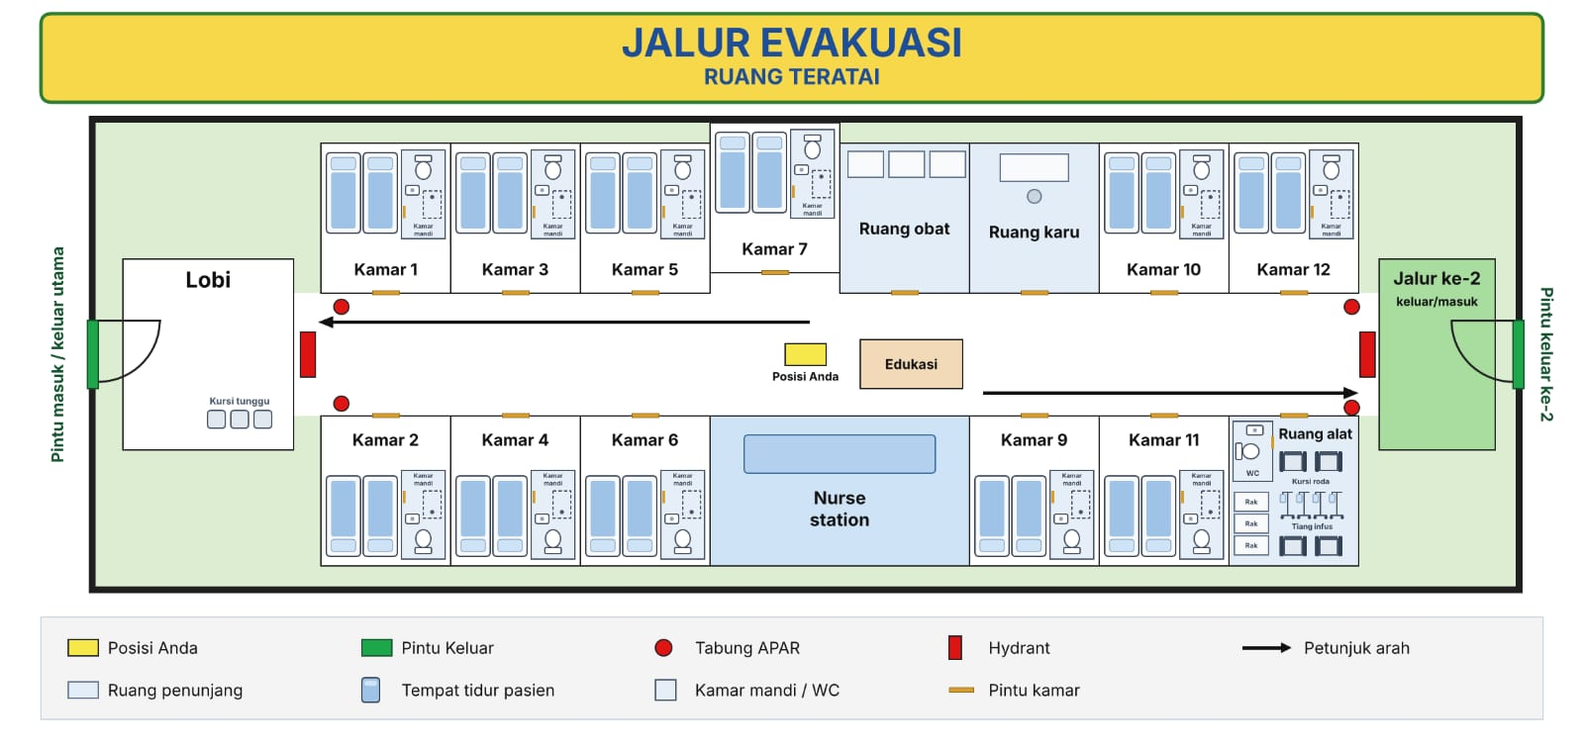
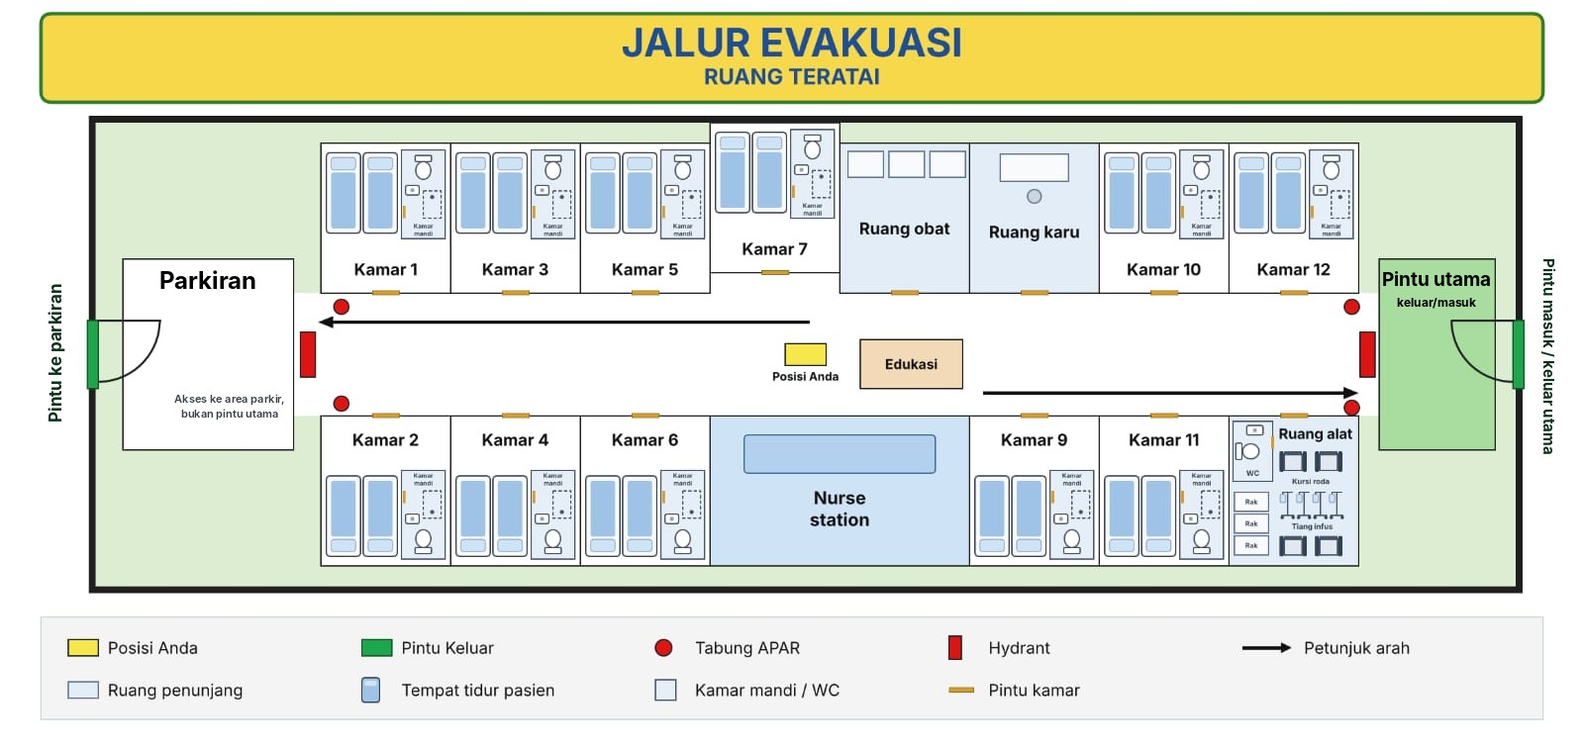
Revisi klien: ilustrasi tangan lebih menyerupai tangan, hapus link di sambutan karu, denah parkiran & pintu utama
- 6 ilustrasi cuci tangan digambar ulang sebagai siluet tangan berwarna kulit
- Link 'Kenali tim kami' di sambutan karu dihapus
- Denah: sisi kiri jadi Parkiran (bukan pintu utama), sisi kanan jadi Pintu utama;
  poster jalur evakuasi diedit dengan label yang sama

Claude-Session: https://claude.ai/code/session_017v6r4Dh7K6F4WkuNDGeXEq

diff --git a/halaman/edukasi.html b/halaman/edukasi.html
@@ -82,43 +82,43 @@
         <div class="hand-steps reveal">
           <figure class="hand-step">
             <svg viewBox="0 0 200 170" role="img" aria-label="Langkah 1: gosok kedua telapak tangan" class="hand-ill">
-  <defs><marker id="ah1" viewBox="0 0 10 10" refX="6" refY="5" markerWidth="5" markerHeight="5" orient="auto-start-reverse"><path d="M0 0 10 5 0 10z" fill="#00843a"/></marker></defs>
-  <g stroke="#12233d" stroke-width="2.2" stroke-linejoin="round" stroke-linecap="round"><g transform="translate(88 98) rotate(10)"><g fill="#ffffff"><rect x="-5.5" y="-30" width="11" height="34" rx="5.5" transform="translate(-21 16) rotate(-38)"/><rect x="-22" y="-46" width="11" height="46" rx="5.5"/><rect x="-10.5" y="-55" width="11" height="55" rx="5.5"/><rect x="1" y="-53" width="11" height="53" rx="5.5"/><rect x="12.5" y="-42" width="11" height="42" rx="5.5"/><path d="M-23 -6 C-25 18 -20 34 -13 40 L-12 64 L12 64 L13 40 C21 32 25 18 23.5 -6 Z"/><path d="M-14 24 Q0 30 14 22" fill="none"/></g></g><g transform="translate(112 100) rotate(-10) scale(-1 1)"><g fill="#d6e4fa"><rect x="-5.5" y="-30" width="11" height="34" rx="5.5" transform="translate(-21 16) rotate(-38)"/><rect x="-22" y="-46" width="11" height="46" rx="5.5"/><rect x="-10.5" y="-55" width="11" height="55" rx="5.5"/><rect x="1" y="-53" width="11" height="53" rx="5.5"/><rect x="12.5" y="-42" width="11" height="42" rx="5.5"/><path d="M-23 -6 C-25 18 -20 34 -13 40 L-12 64 L12 64 L13 40 C21 32 25 18 23.5 -6 Z"/><path d="M-14 24 Q0 30 14 22" fill="none"/></g></g><circle cx="70" cy="60" r="4" fill="#fff" stroke="#7fa8e6" stroke-width="1.6"/><circle cx="132" cy="62" r="3.5" fill="#fff" stroke="#7fa8e6" stroke-width="1.6"/><circle cx="128" cy="118" r="3" fill="#fff" stroke="#7fa8e6" stroke-width="1.6"/><path d="M34 64 A 16 16 0 1 1 40 96" fill="none" stroke="#00843a" stroke-width="3" stroke-linecap="round" marker-end="url(#ah1)"/><path d="M166 96 A 16 16 0 1 1 160 64" fill="none" stroke="#00843a" stroke-width="3" stroke-linecap="round" marker-end="url(#ah1)"/></g>
+  <defs><marker id="ah1" viewBox="0 0 10 10" refX="6" refY="5" markerWidth="4.5" markerHeight="4.5" orient="auto-start-reverse"><path d="M0 0 10 5 0 10z" fill="#00843a"/></marker></defs>
+  <g transform="translate(58 22) rotate(-6 46 75) scale(.92)"><path d="M26 150 C24 132 18 118 12 104 C6 92 0 78 2 66 C3 58 12 56 16 63 C19 70 22 80 24 86 L22 34 C22 22 38 22 38 32 L38 60 C38 63 40 63 40 60 L40 22 C40 10 56 10 56 22 L56 58 C56 61 58 61 58 58 L58 28 C58 17 74 17 74 28 L74 62 C74 65 76 65 76 62 L76 46 C76 36 90 36 90 46 L90 86 C92 102 90 116 86 128 L84 150 Z" fill="#eec0a2" stroke="#4a3328" stroke-width="1.9" stroke-linejoin="round"/><path d="M28 100 C40 92 56 92 70 96 M30 112 C44 106 60 108 72 116 M24 90 C30 100 34 118 36 132 M24 46 h12 M42 38 h12 M60 42 h12 M78 58 h10 M24 72 h12 M42 66 h12 M60 70 h12" fill="none" stroke="#b98a72" stroke-width="1.5" stroke-linecap="round"/></g><g transform="translate(146 26) rotate(6 -46 75) scale(-.92 .92)"><path d="M26 150 C24 132 18 118 12 104 C6 92 0 78 2 66 C3 58 12 56 16 63 C19 70 22 80 24 86 L22 34 C22 22 38 22 38 32 L38 60 C38 63 40 63 40 60 L40 22 C40 10 56 10 56 22 L56 58 C56 61 58 61 58 58 L58 28 C58 17 74 17 74 28 L74 62 C74 65 76 65 76 62 L76 46 C76 36 90 36 90 46 L90 86 C92 102 90 116 86 128 L84 150 Z" fill="#fbe0cd" stroke="#4a3328" stroke-width="1.9" stroke-linejoin="round"/><path d="M28 100 C40 92 56 92 70 96 M30 112 C44 106 60 108 72 116 M24 90 C30 100 34 118 36 132 M24 46 h12 M42 38 h12 M60 42 h12 M78 58 h10 M24 72 h12 M42 66 h12 M60 70 h12" fill="none" stroke="#b98a72" stroke-width="1.5" stroke-linecap="round"/></g><circle cx="60" cy="40" r="4" fill="#fff" stroke="#8fb4ea" stroke-width="1.5"/><circle cx="142" cy="44" r="3.5" fill="#fff" stroke="#8fb4ea" stroke-width="1.5"/><circle cx="100" cy="150" r="3" fill="#fff" stroke="#8fb4ea" stroke-width="1.5"/><path d="M30 80 A 16 16 0 1 1 40 108" fill="none" stroke="#00843a" stroke-width="3.2" stroke-linecap="round" marker-end="url(#ah1)"/><path d="M170 108 A 16 16 0 1 1 160 80" fill="none" stroke="#00843a" stroke-width="3.2" stroke-linecap="round" marker-end="url(#ah1)"/>
 </svg>
             <figcaption><span class="big-no">1</span><span>Gosok kedua telapak tangan.</span></figcaption>
           </figure>
           <figure class="hand-step">
             <svg viewBox="0 0 200 170" role="img" aria-label="Langkah 2: gosok punggung tangan dan sela jari bergantian" class="hand-ill">
-  <defs><marker id="ah2" viewBox="0 0 10 10" refX="6" refY="5" markerWidth="5" markerHeight="5" orient="auto-start-reverse"><path d="M0 0 10 5 0 10z" fill="#00843a"/></marker></defs>
-  <g stroke="#12233d" stroke-width="2.2" stroke-linejoin="round" stroke-linecap="round"><g transform="translate(98 104) rotate(0) scale(-1 1)"><g fill="#d6e4fa"><rect x="-5.5" y="-30" width="11" height="34" rx="5.5" transform="translate(-21 16) rotate(-38)"/><rect x="-22" y="-46" width="11" height="46" rx="5.5"/><rect x="-10.5" y="-55" width="11" height="55" rx="5.5"/><rect x="1" y="-53" width="11" height="53" rx="5.5"/><rect x="12.5" y="-42" width="11" height="42" rx="5.5"/><path d="M-23 -6 C-25 18 -20 34 -13 40 L-12 64 L12 64 L13 40 C21 32 25 18 23.5 -6 Z"/><path d="M-14 24 Q0 30 14 22" fill="none"/></g></g><g transform="translate(112 86) rotate(-24)"><g fill="#ffffff"><rect x="-5.5" y="-30" width="11" height="34" rx="5.5" transform="translate(-21 16) rotate(-38)"/><rect x="-22" y="-46" width="11" height="46" rx="5.5"/><rect x="-10.5" y="-55" width="11" height="55" rx="5.5"/><rect x="1" y="-53" width="11" height="53" rx="5.5"/><rect x="12.5" y="-42" width="11" height="42" rx="5.5"/><path d="M-23 -6 C-25 18 -20 34 -13 40 L-12 64 L12 64 L13 40 C21 32 25 18 23.5 -6 Z"/><path d="M-14 24 Q0 30 14 22" fill="none"/></g></g><circle cx="60" cy="58" r="3.5" fill="#fff" stroke="#7fa8e6" stroke-width="1.6"/><circle cx="150" cy="120" r="3" fill="#fff" stroke="#7fa8e6" stroke-width="1.6"/><path d="M150 36 L176 72" fill="none" stroke="#00843a" stroke-width="3" stroke-linecap="round" marker-start="url(#ah2)" marker-end="url(#ah2)"/></g>
+  <defs><marker id="ah2" viewBox="0 0 10 10" refX="6" refY="5" markerWidth="4.5" markerHeight="4.5" orient="auto-start-reverse"><path d="M0 0 10 5 0 10z" fill="#00843a"/></marker></defs>
+  <g transform="translate(58 26) scale(.9)"><path d="M26 150 C24 132 18 118 12 104 C6 92 0 78 2 66 C3 58 12 56 16 63 C19 70 22 80 24 86 L22 34 C22 22 38 22 38 32 L38 60 C38 63 40 63 40 60 L40 22 C40 10 56 10 56 22 L56 58 C56 61 58 61 58 58 L58 28 C58 17 74 17 74 28 L74 62 C74 65 76 65 76 62 L76 46 C76 36 90 36 90 46 L90 86 C92 102 90 116 86 128 L84 150 Z" fill="#eec0a2" stroke="#4a3328" stroke-width="1.9" stroke-linejoin="round"/><path d="M25 30 c3 -4 8 -4 11 0 M43 18 c3 -4 8 -4 11 0 M61 24 c3 -4 8 -4 11 0 M79 42 c3 -4 8 -4 9 0 M28 70 q4 3 8 0 M46 66 q4 3 8 0 M64 70 q4 3 8 0 M80 80 q4 3 7 0 M44 110 C52 120 62 120 70 112" fill="none" stroke="#b98a72" stroke-width="1.5" stroke-linecap="round"/></g><g transform="translate(150 10) rotate(18 -46 75) scale(-.9 .9)"><path d="M26 150 C24 132 18 118 12 104 C6 92 0 78 2 66 C3 58 12 56 16 63 C19 70 22 80 24 86 L22 34 C22 22 38 22 38 32 L38 60 C38 63 40 63 40 60 L40 22 C40 10 56 10 56 22 L56 58 C56 61 58 61 58 58 L58 28 C58 17 74 17 74 28 L74 62 C74 65 76 65 76 62 L76 46 C76 36 90 36 90 46 L90 86 C92 102 90 116 86 128 L84 150 Z" fill="#fbe0cd" stroke="#4a3328" stroke-width="1.9" stroke-linejoin="round"/><path d="M28 100 C40 92 56 92 70 96 M30 112 C44 106 60 108 72 116 M24 90 C30 100 34 118 36 132 M24 46 h12 M42 38 h12 M60 42 h12 M78 58 h10 M24 72 h12 M42 66 h12 M60 70 h12" fill="none" stroke="#b98a72" stroke-width="1.5" stroke-linecap="round"/></g><circle cx="58" cy="52" r="4" fill="#fff" stroke="#8fb4ea" stroke-width="1.5"/><circle cx="150" cy="140" r="3.5" fill="#fff" stroke="#8fb4ea" stroke-width="1.5"/><path d="M168 40 L182 80" fill="none" stroke="#00843a" stroke-width="3.2" stroke-linecap="round" marker-start="url(#ah2)" marker-end="url(#ah2)"/>
 </svg>
             <figcaption><span class="big-no">2</span><span>Gosok punggung tangan dan sela-sela jari, bergantian kanan dan kiri.</span></figcaption>
           </figure>
           <figure class="hand-step">
             <svg viewBox="0 0 200 170" role="img" aria-label="Langkah 3: gosok telapak dan sela jari dengan jari saling terkait" class="hand-ill">
-  <defs><marker id="ah3" viewBox="0 0 10 10" refX="6" refY="5" markerWidth="5" markerHeight="5" orient="auto-start-reverse"><path d="M0 0 10 5 0 10z" fill="#00843a"/></marker></defs>
-  <g stroke="#12233d" stroke-width="2.2" stroke-linejoin="round" stroke-linecap="round"><g transform="translate(93 102)"><g fill="#ffffff"><rect x="-5.5" y="-30" width="11" height="34" rx="5.5" transform="translate(-21 16) rotate(-38)"/><rect x="-22" y="-46" width="11" height="46" rx="5.5"/><rect x="-10.5" y="-55" width="11" height="55" rx="5.5"/><rect x="1" y="-53" width="11" height="53" rx="5.5"/><rect x="12.5" y="-42" width="11" height="42" rx="5.5"/><path d="M-23 -6 C-25 18 -20 34 -13 40 L-12 64 L12 64 L13 40 C21 32 25 18 23.5 -6 Z"/><path d="M-14 24 Q0 30 14 22" fill="none"/></g></g><g transform="translate(105 96) scale(-1 1)"><g fill="#d6e4fa"><rect x="-5.5" y="-30" width="11" height="34" rx="5.5" transform="translate(-21 16) rotate(-38)"/><rect x="-22" y="-46" width="11" height="46" rx="5.5"/><rect x="-10.5" y="-55" width="11" height="55" rx="5.5"/><rect x="1" y="-53" width="11" height="53" rx="5.5"/><rect x="12.5" y="-42" width="11" height="42" rx="5.5"/><path d="M-23 -6 C-25 18 -20 34 -13 40 L-12 64 L12 64 L13 40 C21 32 25 18 23.5 -6 Z"/><path d="M-14 24 Q0 30 14 22" fill="none"/></g></g><circle cx="64" cy="70" r="3.5" fill="#fff" stroke="#7fa8e6" stroke-width="1.6"/><circle cx="140" cy="74" r="3" fill="#fff" stroke="#7fa8e6" stroke-width="1.6"/><path d="M160 52 L160 112" fill="none" stroke="#00843a" stroke-width="3" stroke-linecap="round" marker-start="url(#ah3)" marker-end="url(#ah3)"/></g>
+  <defs><marker id="ah3" viewBox="0 0 10 10" refX="6" refY="5" markerWidth="4.5" markerHeight="4.5" orient="auto-start-reverse"><path d="M0 0 10 5 0 10z" fill="#00843a"/></marker></defs>
+  <g transform="translate(52 22) scale(.92)"><path d="M26 150 C24 132 18 118 12 104 C6 92 0 78 2 66 C3 58 12 56 16 63 C19 70 22 80 24 86 L22 34 C22 22 38 22 38 32 L38 60 C38 63 40 63 40 60 L40 22 C40 10 56 10 56 22 L56 58 C56 61 58 61 58 58 L58 28 C58 17 74 17 74 28 L74 62 C74 65 76 65 76 62 L76 46 C76 36 90 36 90 46 L90 86 C92 102 90 116 86 128 L84 150 Z" fill="#eec0a2" stroke="#4a3328" stroke-width="1.9" stroke-linejoin="round"/><path d="M28 100 C40 92 56 92 70 96 M30 112 C44 106 60 108 72 116 M24 90 C30 100 34 118 36 132 M24 46 h12 M42 38 h12 M60 42 h12 M78 58 h10 M24 72 h12 M42 66 h12 M60 70 h12" fill="none" stroke="#b98a72" stroke-width="1.5" stroke-linecap="round"/></g><g transform="translate(154 26) scale(-.92 .92)"><path d="M26 150 C24 132 18 118 12 104 C6 92 0 78 2 66 C3 58 12 56 16 63 C19 70 22 80 24 86 L22 34 C22 22 38 22 38 32 L38 60 C38 63 40 63 40 60 L40 22 C40 10 56 10 56 22 L56 58 C56 61 58 61 58 58 L58 28 C58 17 74 17 74 28 L74 62 C74 65 76 65 76 62 L76 46 C76 36 90 36 90 46 L90 86 C92 102 90 116 86 128 L84 150 Z" fill="#fbe0cd" stroke="#4a3328" stroke-width="1.9" stroke-linejoin="round"/><path d="M28 100 C40 92 56 92 70 96 M30 112 C44 106 60 108 72 116 M24 90 C30 100 34 118 36 132 M24 46 h12 M42 38 h12 M60 42 h12 M78 58 h10 M24 72 h12 M42 66 h12 M60 70 h12" fill="none" stroke="#b98a72" stroke-width="1.5" stroke-linecap="round"/></g><circle cx="56" cy="50" r="4" fill="#fff" stroke="#8fb4ea" stroke-width="1.5"/><circle cx="146" cy="54" r="3.5" fill="#fff" stroke="#8fb4ea" stroke-width="1.5"/><path d="M180 60 L180 118" fill="none" stroke="#00843a" stroke-width="3.2" stroke-linecap="round" marker-start="url(#ah3)" marker-end="url(#ah3)"/>
 </svg>
             <figcaption><span class="big-no">3</span><span>Gosok telapak tangan dan sela-sela jari dengan jari saling terkait.</span></figcaption>
           </figure>
           <figure class="hand-step">
             <svg viewBox="0 0 200 170" role="img" aria-label="Langkah 4: gosok punggung jari dengan kedua tangan saling mengunci" class="hand-ill">
-  <defs><marker id="ah4" viewBox="0 0 10 10" refX="6" refY="5" markerWidth="5" markerHeight="5" orient="auto-start-reverse"><path d="M0 0 10 5 0 10z" fill="#00843a"/></marker></defs>
-  <g stroke="#12233d" stroke-width="2.2" stroke-linejoin="round" stroke-linecap="round"><g transform="translate(78 92) rotate(90)"><g fill="#ffffff"><path d="M-12 28 L-12 58 L12 58 L12 28"/><path d="M-24 -14 Q-24 -26 -12 -26 L14 -26 Q26 -26 26 -12 L25 14 Q24 26 10 28 L-10 28 Q-24 26 -24 12 Z"/><path d="M-12 -26 V-12 M1 -26 V-12 M14 -26 V-12" fill="none"/></g></g><g transform="translate(118 90) rotate(-90)"><g fill="#d6e4fa"><path d="M-12 28 L-12 58 L12 58 L12 28"/><path d="M-24 -14 Q-24 -26 -12 -26 L14 -26 Q26 -26 26 -12 L25 14 Q24 26 10 28 L-10 28 Q-24 26 -24 12 Z"/><path d="M-12 -26 V-12 M1 -26 V-12 M14 -26 V-12" fill="none"/></g></g><circle cx="98" cy="52" r="3.5" fill="#fff" stroke="#7fa8e6" stroke-width="1.6"/><circle cx="100" cy="130" r="3" fill="#fff" stroke="#7fa8e6" stroke-width="1.6"/><path d="M66 140 L134 140" fill="none" stroke="#00843a" stroke-width="3" stroke-linecap="round" marker-start="url(#ah4)" marker-end="url(#ah4)"/></g>
+  <defs><marker id="ah4" viewBox="0 0 10 10" refX="6" refY="5" markerWidth="4.5" markerHeight="4.5" orient="auto-start-reverse"><path d="M0 0 10 5 0 10z" fill="#00843a"/></marker></defs>
+  <g transform="translate(44 40) scale(.8)"><path d="M20 62 L-34 60 L-34 98 L22 96 Z" fill="#eec0a2" stroke="#4a3328" stroke-width="1.9" stroke-linejoin="round"/></g><g transform="translate(44 40) scale(.8)"><path d="M8 70 C6 46 18 28 38 26 C46 18 58 18 64 26 C72 22 84 26 86 36 C94 38 98 48 96 58 C100 66 98 78 90 82 C86 94 74 100 60 98 L30 98 C16 98 8 86 8 70 Z" fill="#eec0a2" stroke="#4a3328" stroke-width="1.9" stroke-linejoin="round"/><path d="M38 26 C40 40 40 52 36 62 M64 26 C66 40 64 54 60 64 M86 36 C86 48 84 58 80 66 M36 62 C52 70 70 70 90 82" fill="none" stroke="#b98a72" stroke-width="1.5" stroke-linecap="round"/></g><g transform="translate(156 42) scale(-.8 .8)"><path d="M20 62 L-34 60 L-34 98 L22 96 Z" fill="#fbe0cd" stroke="#4a3328" stroke-width="1.9" stroke-linejoin="round"/></g><g transform="translate(156 42) scale(-.8 .8)"><path d="M8 70 C6 46 18 28 38 26 C46 18 58 18 64 26 C72 22 84 26 86 36 C94 38 98 48 96 58 C100 66 98 78 90 82 C86 94 74 100 60 98 L30 98 C16 98 8 86 8 70 Z" fill="#fbe0cd" stroke="#4a3328" stroke-width="1.9" stroke-linejoin="round"/><path d="M38 26 C40 40 40 52 36 62 M64 26 C66 40 64 54 60 64 M86 36 C86 48 84 58 80 66 M36 62 C52 70 70 70 90 82" fill="none" stroke="#b98a72" stroke-width="1.5" stroke-linecap="round"/></g><circle cx="100" cy="40" r="4" fill="#fff" stroke="#8fb4ea" stroke-width="1.5"/><circle cx="96" cy="136" r="3" fill="#fff" stroke="#8fb4ea" stroke-width="1.5"/><path d="M60 148 L140 148" fill="none" stroke="#00843a" stroke-width="3.2" stroke-linecap="round" marker-start="url(#ah4)" marker-end="url(#ah4)"/>
 </svg>
             <figcaption><span class="big-no">4</span><span>Gosok punggung jari dengan posisi kedua tangan saling mengunci.</span></figcaption>
           </figure>
           <figure class="hand-step">
             <svg viewBox="0 0 200 170" role="img" aria-label="Langkah 5: gosok ibu jari memutar dalam genggaman tangan lain" class="hand-ill">
-  <defs><marker id="ah5" viewBox="0 0 10 10" refX="6" refY="5" markerWidth="5" markerHeight="5" orient="auto-start-reverse"><path d="M0 0 10 5 0 10z" fill="#00843a"/></marker></defs>
-  <g stroke="#12233d" stroke-width="2.2" stroke-linejoin="round" stroke-linecap="round"><g transform="translate(118 100) rotate(14)"><g fill="#ffffff"><rect x="-5.5" y="-30" width="11" height="34" rx="5.5" transform="translate(-21 16) rotate(-38)"/><rect x="-22" y="-46" width="11" height="46" rx="5.5"/><rect x="-10.5" y="-55" width="11" height="55" rx="5.5"/><rect x="1" y="-53" width="11" height="53" rx="5.5"/><rect x="12.5" y="-42" width="11" height="42" rx="5.5"/><path d="M-23 -6 C-25 18 -20 34 -13 40 L-12 64 L12 64 L13 40 C21 32 25 18 23.5 -6 Z"/><path d="M-14 24 Q0 30 14 22" fill="none"/></g></g><g transform="translate(84 104) rotate(-60) scale(.78)"><g fill="#d6e4fa"><path d="M-12 28 L-12 58 L12 58 L12 28"/><path d="M-24 -14 Q-24 -26 -12 -26 L14 -26 Q26 -26 26 -12 L25 14 Q24 26 10 28 L-10 28 Q-24 26 -24 12 Z"/><path d="M-12 -26 V-12 M1 -26 V-12 M14 -26 V-12" fill="none"/></g></g><circle cx="150" cy="52" r="3.5" fill="#fff" stroke="#7fa8e6" stroke-width="1.6"/><circle cx="156" cy="112" r="3" fill="#fff" stroke="#7fa8e6" stroke-width="1.6"/><path d="M42 70 A 30 30 0 1 0 98 82" fill="none" stroke="#00843a" stroke-width="3" stroke-linecap="round" marker-end="url(#ah5)"/></g>
+  <defs><marker id="ah5" viewBox="0 0 10 10" refX="6" refY="5" markerWidth="4.5" markerHeight="4.5" orient="auto-start-reverse"><path d="M0 0 10 5 0 10z" fill="#00843a"/></marker></defs>
+  <g transform="translate(92 14) rotate(10 46 75) scale(.9)"><path d="M26 150 C24 132 18 118 12 104 C6 92 0 78 2 66 C3 58 12 56 16 63 C19 70 22 80 24 86 L22 34 C22 22 38 22 38 32 L38 60 C38 63 40 63 40 60 L40 22 C40 10 56 10 56 22 L56 58 C56 61 58 61 58 58 L58 28 C58 17 74 17 74 28 L74 62 C74 65 76 65 76 62 L76 46 C76 36 90 36 90 46 L90 86 C92 102 90 116 86 128 L84 150 Z" fill="#eec0a2" stroke="#4a3328" stroke-width="1.9" stroke-linejoin="round"/><path d="M28 100 C40 92 56 92 70 96 M30 112 C44 106 60 108 72 116 M24 90 C30 100 34 118 36 132 M24 46 h12 M42 38 h12 M60 42 h12 M78 58 h10 M24 72 h12 M42 66 h12 M60 70 h12" fill="none" stroke="#b98a72" stroke-width="1.5" stroke-linecap="round"/></g><g transform="translate(62 64) rotate(-35 50 60) scale(.6)"><path d="M20 62 L-34 60 L-34 98 L22 96 Z" fill="#fbe0cd" stroke="#4a3328" stroke-width="1.9" stroke-linejoin="round"/></g><g transform="translate(62 64) rotate(-35 50 60) scale(.6)"><path d="M8 70 C6 46 18 28 38 26 C46 18 58 18 64 26 C72 22 84 26 86 36 C94 38 98 48 96 58 C100 66 98 78 90 82 C86 94 74 100 60 98 L30 98 C16 98 8 86 8 70 Z" fill="#fbe0cd" stroke="#4a3328" stroke-width="1.9" stroke-linejoin="round"/><path d="M38 26 C40 40 40 52 36 62 M64 26 C66 40 64 54 60 64 M86 36 C86 48 84 58 80 66 M36 62 C52 70 70 70 90 82" fill="none" stroke="#b98a72" stroke-width="1.5" stroke-linecap="round"/></g><circle cx="160" cy="40" r="4" fill="#fff" stroke="#8fb4ea" stroke-width="1.5"/><circle cx="170" cy="120" r="3" fill="#fff" stroke="#8fb4ea" stroke-width="1.5"/><path d="M40 64 A 34 34 0 1 0 112 72" fill="none" stroke="#00843a" stroke-width="3.2" stroke-linecap="round" marker-end="url(#ah5)"/>
 </svg>
             <figcaption><span class="big-no">5</span><span>Gosok ibu jari secara memutar dalam genggaman tangan lainnya, bergantian.</span></figcaption>
           </figure>
           <figure class="hand-step">
             <svg viewBox="0 0 200 170" role="img" aria-label="Langkah 6: gosok ujung jari memutar di telapak tangan lain" class="hand-ill">
-  <defs><marker id="ah6" viewBox="0 0 10 10" refX="6" refY="5" markerWidth="5" markerHeight="5" orient="auto-start-reverse"><path d="M0 0 10 5 0 10z" fill="#00843a"/></marker></defs>
-  <g stroke="#12233d" stroke-width="2.2" stroke-linejoin="round" stroke-linecap="round"><g transform="translate(100 128) rotate(-84)"><g fill="#d6e4fa"><rect x="-5.5" y="-30" width="11" height="34" rx="5.5" transform="translate(-21 16) rotate(-38)"/><rect x="-22" y="-46" width="11" height="46" rx="5.5"/><rect x="-10.5" y="-55" width="11" height="55" rx="5.5"/><rect x="1" y="-53" width="11" height="53" rx="5.5"/><rect x="12.5" y="-42" width="11" height="42" rx="5.5"/><path d="M-23 -6 C-25 18 -20 34 -13 40 L-12 64 L12 64 L13 40 C21 32 25 18 23.5 -6 Z"/><path d="M-14 24 Q0 30 14 22" fill="none"/></g></g><g transform="translate(96 84) scale(.9)"><g fill="#ffffff"><path d="M-16 -50 L16 -50 Q20 -6 6 22 Q0 32 -6 22 Q-20 -6 -16 -50 Z"/><path d="M-7 -20 Q-4 6 -1 24 M7 -20 Q4 6 1 24" fill="none"/></g></g><circle cx="150" cy="118" r="3.5" fill="#fff" stroke="#7fa8e6" stroke-width="1.6"/><circle cx="64" cy="104" r="3" fill="#fff" stroke="#7fa8e6" stroke-width="1.6"/><path d="M150 40 A 20 20 0 1 1 124 30" fill="none" stroke="#00843a" stroke-width="3" stroke-linecap="round" marker-end="url(#ah6)"/></g>
+  <defs><marker id="ah6" viewBox="0 0 10 10" refX="6" refY="5" markerWidth="4.5" markerHeight="4.5" orient="auto-start-reverse"><path d="M0 0 10 5 0 10z" fill="#00843a"/></marker></defs>
+  <g transform="translate(26 158) rotate(-90) scale(.92)"><path d="M26 150 C24 132 18 118 12 104 C6 92 0 78 2 66 C3 58 12 56 16 63 C19 70 22 80 24 86 L22 34 C22 22 38 22 38 32 L38 60 C38 63 40 63 40 60 L40 22 C40 10 56 10 56 22 L56 58 C56 61 58 61 58 58 L58 28 C58 17 74 17 74 28 L74 62 C74 65 76 65 76 62 L76 46 C76 36 90 36 90 46 L90 86 C92 102 90 116 86 128 L84 150 Z" fill="#eec0a2" stroke="#4a3328" stroke-width="1.9" stroke-linejoin="round"/><path d="M28 100 C40 92 56 92 70 96 M30 112 C44 106 60 108 72 116 M24 90 C30 100 34 118 36 132 M24 46 h12 M42 38 h12 M60 42 h12 M78 58 h10 M24 72 h12 M42 66 h12 M60 70 h12" fill="none" stroke="#b98a72" stroke-width="1.5" stroke-linecap="round"/></g><g transform="translate(84 18) scale(.95)"><path d="M20 0 L64 0 C66 30 62 56 52 78 C48 90 42 96 38 96 C32 96 28 88 26 78 C18 56 16 30 20 0 Z" fill="#fbe0cd" stroke="#4a3328" stroke-width="1.9" stroke-linejoin="round"/><path d="M33 8 C34 40 36 70 38 92 M47 8 C46 40 44 70 40 92 M30 80 q8 6 16 0" fill="none" stroke="#b98a72" stroke-width="1.5" stroke-linecap="round"/></g><circle cx="150" cy="120" r="4" fill="#fff" stroke="#8fb4ea" stroke-width="1.5"/><circle cx="40" cy="120" r="3" fill="#fff" stroke="#8fb4ea" stroke-width="1.5"/><path d="M152 54 A 20 20 0 1 1 128 36" fill="none" stroke="#00843a" stroke-width="3.2" stroke-linecap="round" marker-end="url(#ah6)"/>
 </svg>
             <figcaption><span class="big-no">6</span><span>Gosok ujung jari pada telapak tangan lainnya dengan gerakan memutar, bergantian.</span></figcaption>
           </figure>

diff --git a/halaman/ruangan/teratai/denah.html b/halaman/ruangan/teratai/denah.html
@@ -75,9 +75,9 @@
               <g class="area" data-title="Kamar 9" data-kind="Kamar pasien" data-desc="Kamar perawatan Kelas 1 dengan kamar mandi di dalam."><rect x="613.8" y="214.9" width="89.5" height="103.8" rx="2"/><text x="658.5" y="266.8" text-anchor="middle">Kamar 9</text><text class="sub" x="658.5" y="281.8" text-anchor="middle">Kelas 1</text></g>
               <g class="area" data-title="Kamar 11" data-kind="Kamar pasien" data-desc="Kamar perawatan Kelas 1 dengan kamar mandi di dalam."><rect x="703.2" y="214.9" width="89.5" height="103.8" rx="2"/><text x="748.0" y="266.8" text-anchor="middle">Kamar 11</text><text class="sub" x="748.0" y="281.8" text-anchor="middle">Kelas 1</text></g>
               <g class="area sup" data-title="Ruang alat" data-kind="Ruang penunjang" data-desc="Penyimpanan kursi roda, tiang infus, dan peralatan lain. Di dalamnya ada WC."><rect x="792.7" y="214.9" width="89.5" height="103.8" rx="2"/><text x="837.5" y="270.8" text-anchor="middle">Ruang alat</text></g>
-              <g class="area" data-title="Lobi" data-kind="Pintu masuk utama" data-desc="Pintu masuk dan keluar utama Ruang Teratai. Tersedia kursi tunggu untuk pengunjung."><rect x="29.8" y="107.0" width="117.5" height="131.8" rx="2"/><text x="88.5" y="172.9" text-anchor="middle">Lobi</text><text class="sub" x="88.5" y="187.9" text-anchor="middle">Pintu utama</text></g>
+              <g class="area park" data-title="Parkiran" data-kind="Akses parkir" data-desc="Pintu di sisi ini mengarah ke area parkir. Ini bukan pintu masuk utama; pintu utama ada di ujung kanan lorong."><rect x="29.8" y="107.0" width="117.5" height="131.8" rx="2"/><text x="88.5" y="172.9" text-anchor="middle">Parkiran</text><text class="sub" x="88.5" y="187.9" text-anchor="middle">Akses parkir</text></g>
               <g class="area edu" data-title="Edukasi" data-kind="Ruang penunjang" data-desc="Area edukasi untuk pasien dan keluarga."><rect x="538.0" y="162.3" width="71.0" height="33.5" rx="2"/><text x="573.5" y="183.1" text-anchor="middle">Edukasi</text></g>
-              <g class="area exit-area" data-title="Jalur ke-2" data-kind="Pintu keluar kedua" data-desc="Pintu keluar dan masuk kedua, juga dipakai sebagai jalur evakuasi."><rect x="896.5" y="107.0" width="79.9" height="131.8" rx="2"/><text x="936.5" y="172.9" text-anchor="middle">Jalur ke-2</text><text class="sub" x="936.5" y="187.9" text-anchor="middle">keluar/masuk</text></g>
+              <g class="area exit-area" data-title="Pintu utama" data-kind="Pintu masuk utama" data-desc="Pintu masuk dan keluar utama Ruang Teratai, juga dipakai sebagai jalur evakuasi."><rect x="896.5" y="107.0" width="79.9" height="131.8" rx="2"/><text x="936.5" y="172.9" text-anchor="middle">Pintu utama</text><text class="sub" x="936.5" y="187.9" text-anchor="middle">keluar/masuk</text></g>
               <defs><marker id="panah" viewBox="0 0 10 10" refX="8" refY="5" markerWidth="7" markerHeight="7" orient="auto-start-reverse"><path d="M0 0 10 5 0 10z" fill="#12233d"/></marker></defs>
               <line class="evac" x1="503.8" y1="150.0" x2="170.5" y2="150.0" marker-end="url(#panah)"/>
               <line class="evac" x1="623.3" y1="199.2" x2="875.4" y2="199.2" marker-end="url(#panah)"/>
@@ -105,16 +105,16 @@
         <div class="sec-head">
           <span class="label reveal"><span class="n">03</span> Keadaan darurat</span>
           <h2 class="h2 reveal">Jalur evakuasi</h2>
-          <p class="lead reveal">Ruang Teratai punya dua pintu keluar, di kedua ujung lorong. Saat keadaan darurat, tetap tenang dan ikuti arahan petugas.</p>
+          <p class="lead reveal">Ruang Teratai punya dua pintu keluar: pintu utama di ujung kanan lorong dan pintu ke parkiran di ujung kiri. Saat keadaan darurat, tetap tenang dan ikuti arahan petugas.</p>
         </div>
         <div class="cols cols-2-1">
           <a class="evac-poster reveal" href="../../../assets/img/teratai/jalur-evakuasi.jpg" target="_blank" rel="noopener">
-            <img src="../../../assets/img/teratai/jalur-evakuasi.jpg" alt="Denah jalur evakuasi Ruang Teratai: dua pintu keluar di ujung lorong, tabung APAR dan hydrant di kedua ujung, panah arah evakuasi ke pintu terdekat." loading="lazy">
+            <img src="../../../assets/img/teratai/jalur-evakuasi.jpg" alt="Denah jalur evakuasi Ruang Teratai: pintu utama di ujung kanan lorong dan pintu ke parkiran di ujung kiri, tabung APAR dan hydrant di kedua ujung, panah arah evakuasi ke pintu terdekat." loading="lazy">
             <span class="small">Ketuk untuk memperbesar</span>
           </a>
           <ol class="rows reveal d1">
-            <li><div><h3>Kamar 1–7 dan nurse station</h3><p>Keluar lewat lorong ke arah lobi, menuju pintu masuk/keluar utama.</p></div></li>
-            <li><div><h3>Kamar 9–12 dan ruang alat</h3><p>Keluar lewat lorong ke arah sebaliknya, menuju pintu jalur ke-2.</p></div></li>
+            <li><div><h3>Kamar 1–7 dan nurse station</h3><p>Keluar lewat lorong ke arah parkiran, melalui pintu di sisi parkiran.</p></div></li>
+            <li><div><h3>Kamar 9–12 dan ruang alat</h3><p>Keluar lewat lorong ke arah sebaliknya, melalui pintu utama.</p></div></li>
             <li><div><h3>Alat pemadam</h3><p>Tabung APAR dan hydrant ada di kedua ujung lorong. Hanya dipakai oleh orang yang terlatih.</p></div></li>
             <li><div><h3>Pasien yang tidak bisa berjalan</h3><p>Jangan dipindahkan sendiri. Beri tahu petugas, mereka yang akan mengevakuasi.</p></div></li>
           </ol>

diff --git a/halaman/ruangan/teratai/index.html b/halaman/ruangan/teratai/index.html
@@ -84,7 +84,6 @@
             <span class="label reveal"><span class="n">02</span> Sambutan</span>
             <blockquote class="quote mt-m reveal" data-karu="sambutan">Kami ingin setiap pasien dan keluarganya tahu apa yang sedang terjadi selama perawatan. Kalau ada yang belum jelas, tanyakan saja ke perawat yang bertugas.</blockquote>
             <div class="quote-by reveal"><strong data-karu="nama">Kepala Ruangan</strong>Kepala Ruang Teratai</div>
-            <a class="link mt-m reveal" href="petugas.html">Kenali tim kami <span class="arrow"><svg viewBox="0 0 16 16" fill="none" stroke="currentColor" stroke-width="1.3"><path d="M2 8h12M9 3l5 5-5 5"/></svg></span></a>
           </div>
         </div>
       </div>

diff --git a/assets/css/style.css b/assets/css/style.css
@@ -1033,3 +1033,6 @@ main [id] { scroll-margin-top: 96px; }
 .modal-actions { display: flex; flex-wrap: wrap; gap: 10px; justify-content: center; margin-top: 22px; }
 .modal-actions .btn { padding: 14px 22px; }
 @media (prefers-reduced-motion: reduce) { .modal[open] { animation: none; } }
+.plan-svg .area.park rect { fill: #e8eaee; stroke: #8a94a6; stroke-dasharray: 5 4; }
+.plan-svg .area.park text { fill: #3e4c63; }
+.plan-svg .area.park.on text { fill: #fff; }

diff --git a/dokumentasi/VERIFIKASI.md b/dokumentasi/VERIFIKASI.md
@@ -145,8 +145,8 @@ Daftar berdasarkan catatan dari pihak rumah sakit (revisi klien).
 | # | Isi di web | Sumber | Info fix |
 |---|---|---|---|
 | J1 | Rute dari gerbang ke Ruang Teratai & lantai ruangan | [4] | |
-| J2 | Denah interaktif: 11 kamar Kelas 1 (Kamar 1–7 dan 9–12, tidak ada Kamar 8) dengan kamar mandi di dalam, ruang obat, ruang karu, nurse station, ruang alat, edukasi, lobi, pintu jalur ke-2 | [R] denah jalur evakuasi dari klien | |
-| J3 | Poster jalur evakuasi + petunjuk: kamar 1–7 & nurse station ke pintu utama, kamar 9–12 & ruang alat ke pintu jalur ke-2 | [R] denah jalur evakuasi | |
+| J2 | Denah interaktif: 11 kamar Kelas 1 (Kamar 1–7 dan 9–12), ruang obat, ruang karu, nurse station, ruang alat, edukasi; **pintu utama di ujung kanan**, sisi kiri adalah **parkiran** (bukan pintu utama) | [R] denah jalur evakuasi + koreksi klien | OK |
+| J3 | Poster jalur evakuasi (label diedit: "Lobi" → "Parkiran", "Jalur ke-2" → "Pintu utama") + petunjuk: kamar 1–7 & nurse station ke sisi parkiran, kamar 9–12 & ruang alat ke pintu utama | [R] + koreksi klien | |
 | J4 | Pengunjung melapor ke nurse station sebelum masuk kamar | [3] | |
 | J5 | Jumlah tempat tidur di web memakai angka klien (21), bukan hitungan dari gambar denah | klien | OK |
 
